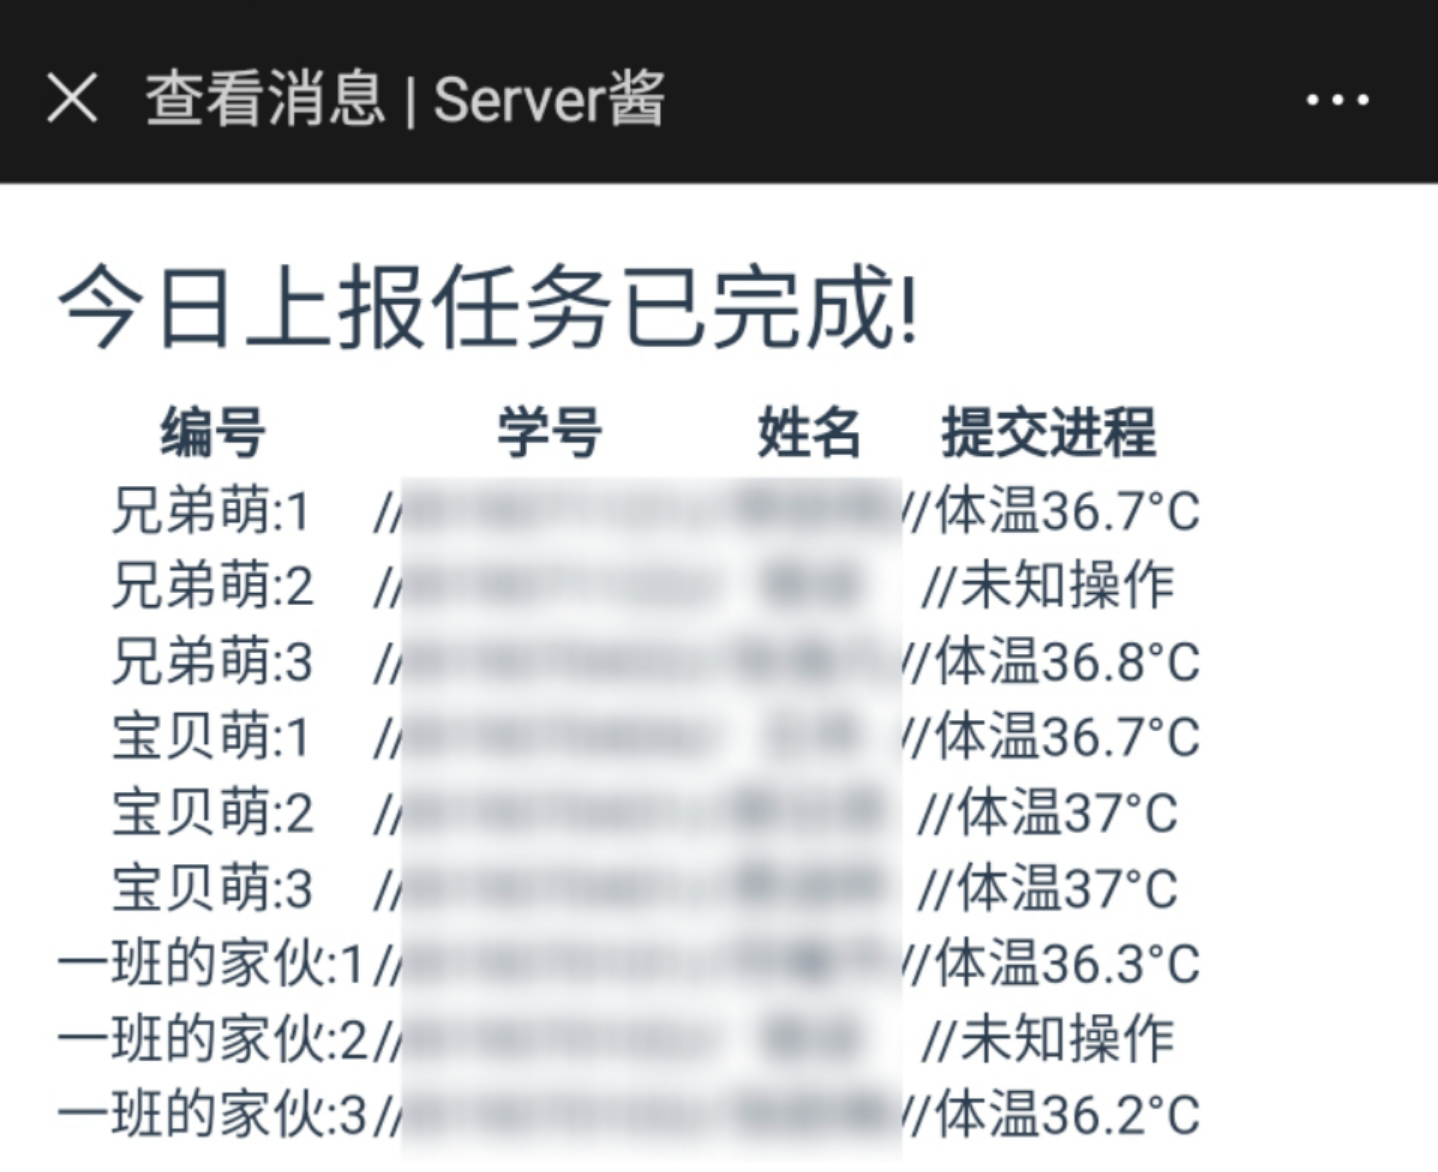
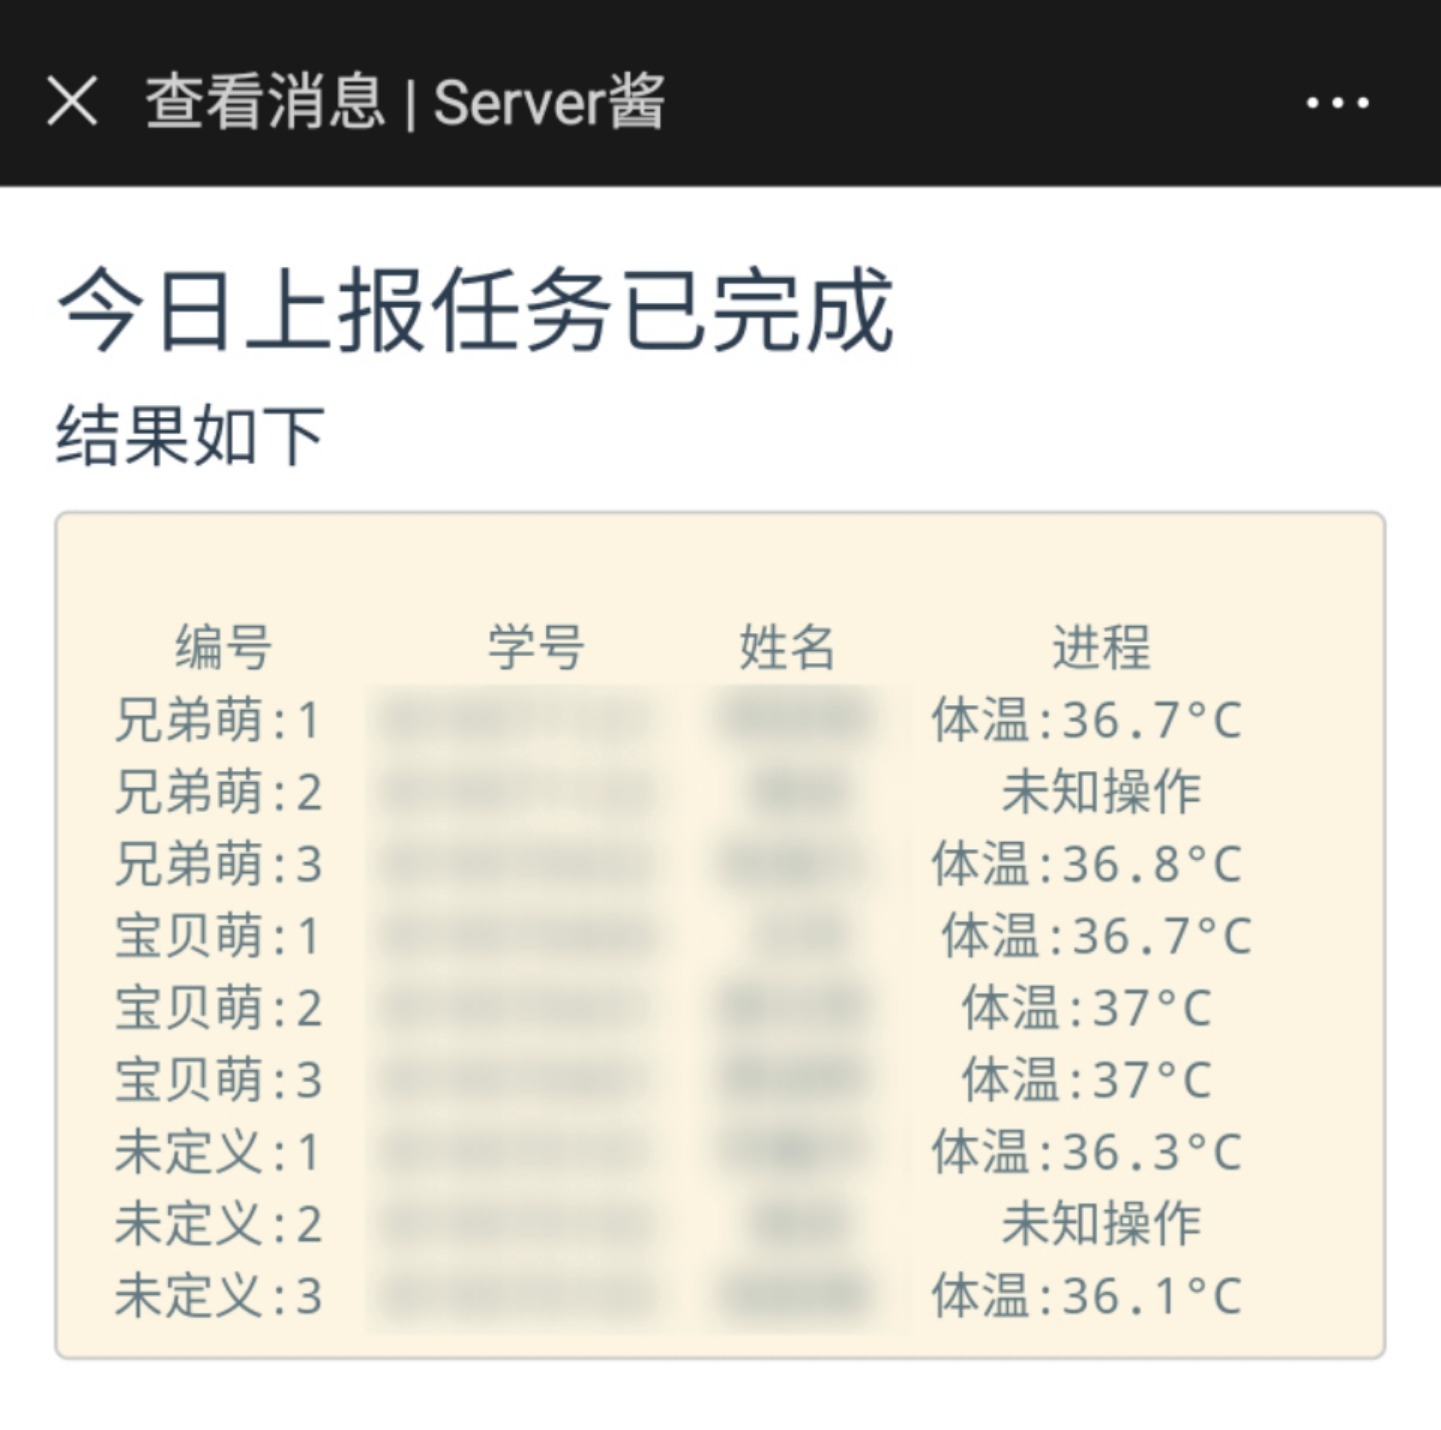
let push message support table

diff --git a/src/mode.py b/src/mode.py
@@ -12,11 +12,11 @@ tbwx = pt.PrettyTable()
 tbwx.set_style(pt.MSWORD_FRIENDLY)
 tbtg.set_style(pt.MSWORD_FRIENDLY)
 tbtg.border = False
+tbwx.border = False
 tb.field_names = ["编号", "学号", "姓名","上次","本次"]
 tbtg.field_names = ["编号", "学号", "姓名","进程"]
 tbtg.add_row(['---','---','---','---'])
-tbwx.field_names = ["编号", "学号", "姓名","提交进程"]
-tbwx.add_row([':----:',':----:',':----:',':----:'])
+tbwx.field_names = ["编号", "学号", "姓名","进程"]
 
 # loding 
 def multi_user_report(jf):
@@ -40,19 +40,19 @@ def multi_user_report(jf):
                     str(get_value('lr_response').json()['data']['createTime']), '今日已提交'])
                     tbtg.add_row([user_dict[str(ct1)]['name']+ ':' + str(n),user_dict[str(ct1)][str(n)]['un'],str(get_value('lg_response').json()['data']['name']),
                     '=今已提交'])
-                    tbwx.add_row([user_dict[str(ct1)]['name']+ ':' + str(n)  ,'//' + user_dict[str(ct1)][str(n)]['un'] + '//',str(get_value('lg_response').json()['data']['name']),
-                    '//' + '今已提交'])
+                    tbwx.add_row([user_dict[str(ct1)]['name']+ ':' + str(n)  ,user_dict[str(ct1)][str(n)]['un'],str(get_value('lg_response').json()['data']['name']),
+                    '今已提交'])
                 else:
                     tb.add_row([user_dict[str(ct1)]['name']+ ':' + str(n),user_dict[str(ct1)][str(n)]['un'],str(get_value('lg_response').json()['data']['name']),
                     str(get_value('lr_response').json()['data']['createTime']), '成功! 体温:' + str(get_value('lr_response').json()['data']['temperature']) + '℃' ])                    
                     tbtg.add_row([user_dict[str(ct1)]['name']+ ':' + str(n),user_dict[str(ct1)][str(n)]['un'],str(get_value('lg_response').json()['data']['name']),
                     '√' + str(get_value('lr_response').json()['data']['temperature']) + '°C' ])  
-                    tbwx.add_row([user_dict[str(ct1)]['name']+ ':' + str(n),'//' + user_dict[str(ct1)][str(n)]['un'] + '//',str(get_value('lg_response').json()['data']['name']),
-                    '//' + '体温:' + str(get_value('lr_response').json()['data']['temperature']) + '°C' ]) 
+                    tbwx.add_row([user_dict[str(ct1)]['name']+ ':' + str(n),user_dict[str(ct1)][str(n)]['un'],str(get_value('lg_response').json()['data']['name']),
+                    '体温:' + str(get_value('lr_response').json()['data']['temperature']) + '°C' ]) 
             else:
                 tb.add_row([user_dict[str(ct1)]['name']+ ':' + str(n),user_dict[str(ct1)][str(n)]['un'], '登陆失败', '无法解析', '未知操作'])
                 tbtg.add_row([user_dict[str(ct1)]['name']+ ':' + str(n),user_dict[str(ct1)][str(n)]['un'], '错误', '×未知操作'])
-                tbwx.add_row([user_dict[str(ct1)]['name']+ ':' + str(n), '//' + user_dict[str(ct1)][str(n)]['un'] + '//', '错误', '//' + '未知操作'])
+                tbwx.add_row([user_dict[str(ct1)]['name']+ ':' + str(n), user_dict[str(ct1)][str(n)]['un'], '错误', '未知操作'])
             n += 1
         else:
             build_msg ("[f]状态: 该组成员已完成提交操作")

diff --git a/main.py b/main.py
@@ -26,7 +26,7 @@ def usage():
     print('usage: main.py -u <username> -p <password> [-f <filename>] [-l] ([-m] [-s] [-t] [-b]) ')
 
 def version():
-    print('lit-ncov-report v1.5')
+    print('lit-ncov-report v1.8')
 
 def main(argv):
     try:
@@ -59,7 +59,7 @@ def main(argv):
             password = arg
 
     def normal_report():
-        if 'password' in locals().keys() and 'password' in locals().keys():
+        if 'username' in locals().keys() and 'password' in locals().keys():
             mode.normal_report(username,password)
         else:
             usage()
@@ -70,23 +70,29 @@ def main(argv):
 
     # judge run mode
     if 'multi' in locals().keys():
-        if 'password' in locals().keys() or 'password' in locals().keys():
-            usage()
+        # run a normal report (using the lasttemperature)
+        if 'filename' in locals().keys():
+            print('[c]载入用户配置: ' + filename)
+            json_flie = filename
         else:
-            # run a normal report (using the lasttemperature)
-            if 'filename' in locals().keys():
-                print('[c]载入用户配置: ' + filename)
-                json_flie = filename
-            else:
-                if 'tab' in locals().keys():
-                    push.table_tmp()
-                json_flie = os.path.join(current_path, 'config/user.json')
-                mode.multi_user_report(json_flie)
-                if 'serverchan' in locals().keys():
-                    push.server_chan_run()
-                if 'tgbot' in locals().keys():
-                    push.tg_bot_run()
+            if 'tab' in locals().keys():
+                push.table_tmp()
+            json_flie = os.path.join(current_path, 'config/user.json')
+            mode.multi_user_report(json_flie)
     else:
         normal_report()
+
+    # tab verification
+    if 'tab' in locals().keys() and 'multi' not in locals().keys():
+        print('[e]table must be run in multi-user mode')
+
+    # push message
+    if 'username' in locals().keys() and 'password' in locals().keys() or 'multi' in locals().keys():
+        if 'serverchan' in locals().keys():
+            push.server_chan_run()
+        if 'tgbot' in locals().keys():
+            push.tg_bot_run()
+
+# main function
 if __name__ == "__main__":
     main(sys.argv[1:])

diff --git a/src/push.py b/src/push.py
@@ -23,10 +23,10 @@ def table_tmp():
     set_value('table',1)
     return (1)
 
-def build_msg(str):
+def build_msg(self):
     if get_value('table') != 1:
-        print(str)
-    msg.append(str)
+        print(self)
+    msg.append(self)
 
 sc_response = None
 
@@ -38,10 +38,20 @@ def server_chan_run():
 
     def server_chan_send():
         """server chan push log to WeChat"""
-        desp = get_value('tbw')
 
+        desp = '#### 结果如下' + '\n'
+        desp += '~~~~'  + '\n'
+
+        if get_value('table') == 1:
+            desp += get_value('tbw')
+        else:
+            for d in msg:
+                desp += d + '\n' +'\n'
+            desp += '~~~~'  + '\n'
+            desp += '[项目](https://github.com/icepie/lit-ncov-report)'  + '\n'
+           
         params = {
-            'text': '今日上报任务已完成!',
+            'text': '今日上报任务已完成',
             'desp': desp
         }
 
@@ -76,11 +86,19 @@ def tg_bot_run():
     
     bot = telebot.TeleBot(tgtoken)
 
-    desp = '------------ 今日上报任务已完成! -----------' + '\n'
-    desp += get_value('tbt')
-    desp = '#lnr ' + '\n' + '<pre>' + desp + '</pre>'
+    desp = '#lnr ' + '\n'
+    desp += '-------------- 今日上报任务已完成! ------------' + '\n'
 
-    tg_response = bot.send_message(chat_id=tgid, text=desp, parse_mode='HTML')
+    if get_value('table') == 1:
+        desp += get_value('tbt')
+        desp = '<pre>' + desp + '</pre>'
+
+        tg_response = bot.send_message(chat_id=tgid, text=desp, parse_mode='HTML')
+    else:
+        desp += '+++++++++++++++++++++++++++++++' + '\n'
+        for d in msg:
+            desp += d + '\n'
+        tg_response = bot.send_message(chat_id=tgid, text=desp)
 
     if tg_response:
         print('[s]Telegram Bot 推送成功!')

diff --git a/README.md b/README.md
@@ -59,7 +59,7 @@ ps:
 前段`1` 和`2`及 `3`为成员序号
 ### table show
 添加参数 `-b` 即可输出结果表格
-> 注意: 只针对多用户模式生效
+> 注意: 只针对多用户模式生效且支持提醒模块
 ##### 例如
 ```bash
 $icepie:python3 main.py -m -b
@@ -79,11 +79,11 @@ $icepie:python3 main.py -m -b
 ```
 
 ### remind sever
-> 注意: 只针对多用户模式生效
 #### wechat提醒
 
 ![test](https://raw.githubusercontent.com/icepie/lit-ncov-report/master/docs/sc1.png) 
 ![test](https://raw.githubusercontent.com/icepie/lit-ncov-report/master/docs/sc2.png)
+![test](https://raw.githubusercontent.com/icepie/lit-ncov-report/master/docs/sc3.png)
 
 1. 进入 http://sc.ftqq.com/3.version ,按照教程获取你的 `sckey`
 2. 打开 `config/push.json`
@@ -136,7 +136,7 @@ main.py -m -t
 - [x] 定时上报
 - [x] 批量上报
 - [x] 表格生成
-### 提醒模块
+### 推送模块
 - [x] wechat提醒(基于 `serverchan` )
 - [x] tgbot提醒
 ### 进阶使用
